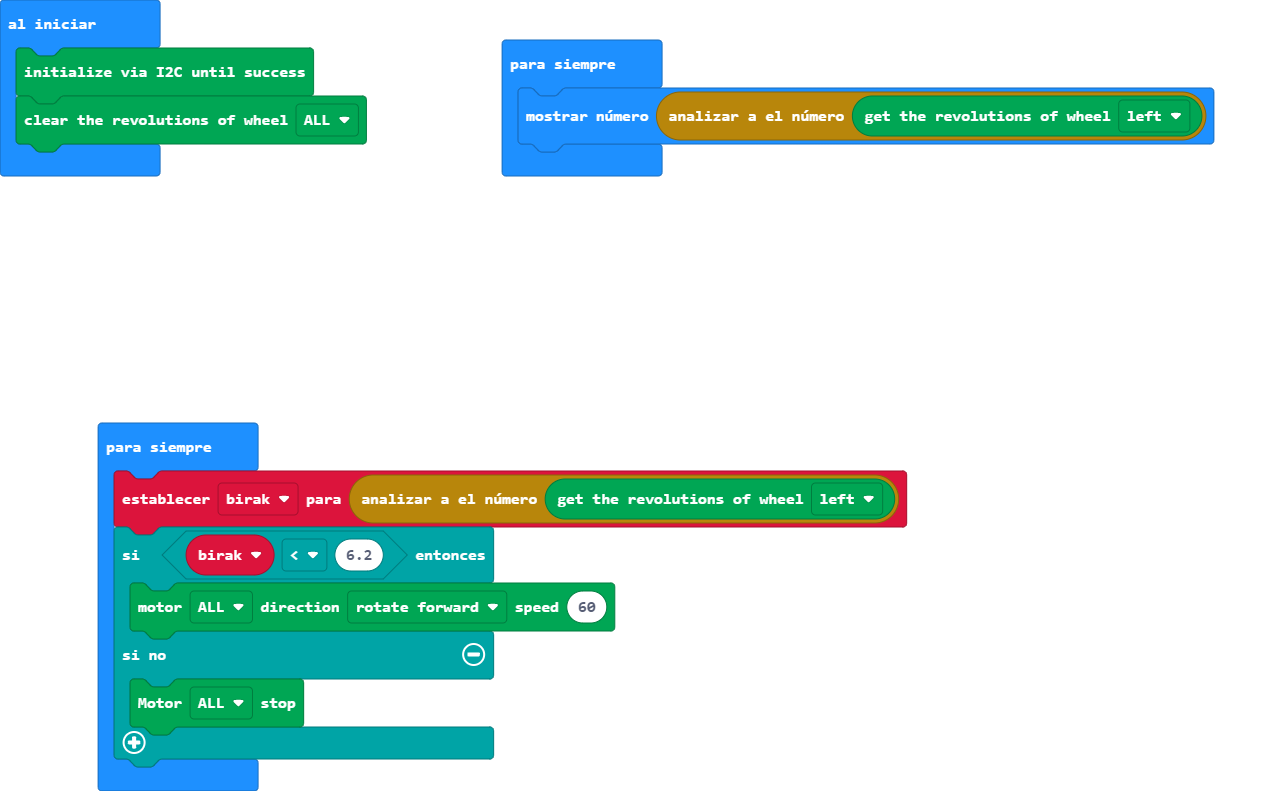
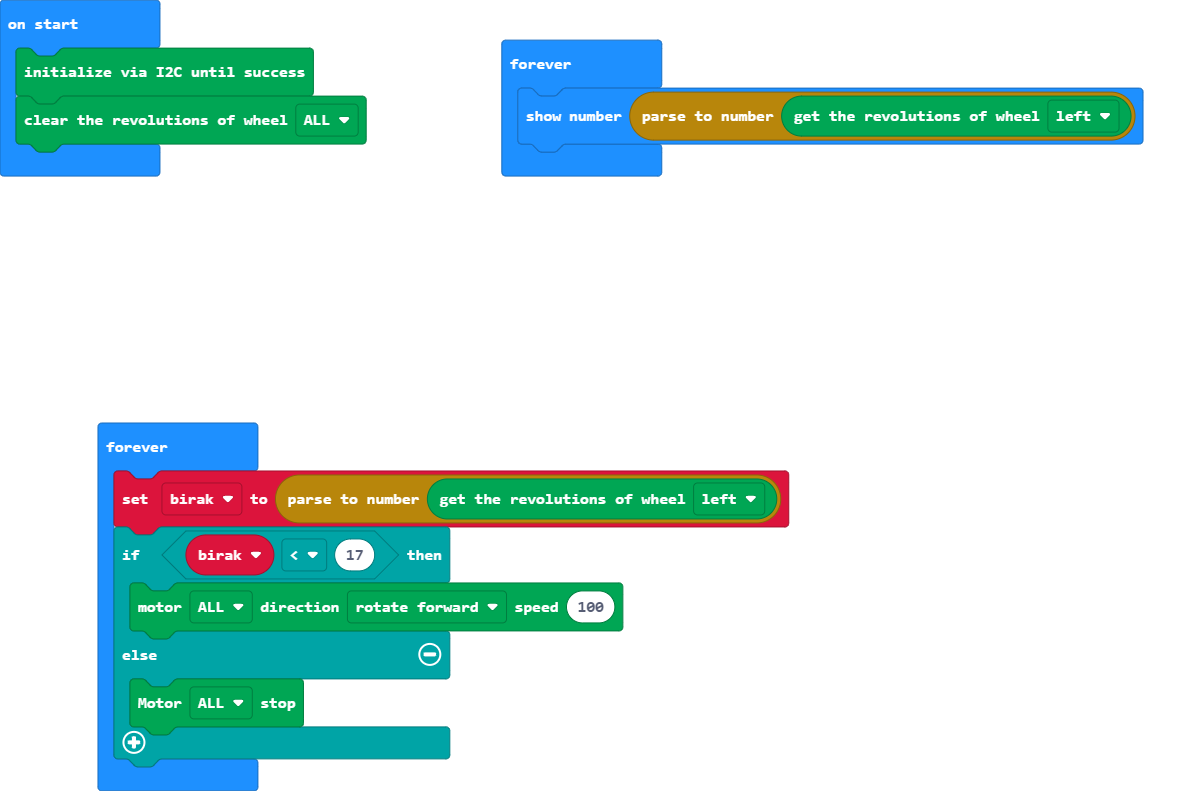
Update main.blocks, main.ts

diff --git a/main.ts b/main.ts
@@ -6,8 +6,8 @@ basic.forever(function () {
 })
 basic.forever(function () {
     birak = parseFloat(DFRobotMaqueenPlus.readeDistance(Motors1.M1))
-    if (birak < 6.2) {
-        DFRobotMaqueenPlus.mototRun(Motors.ALL, Dir.CW, 60)
+    if (birak < 17) {
+        DFRobotMaqueenPlus.mototRun(Motors.ALL, Dir.CW, 100)
     } else {
         DFRobotMaqueenPlus.mototStop(Motors.ALL)
     }
